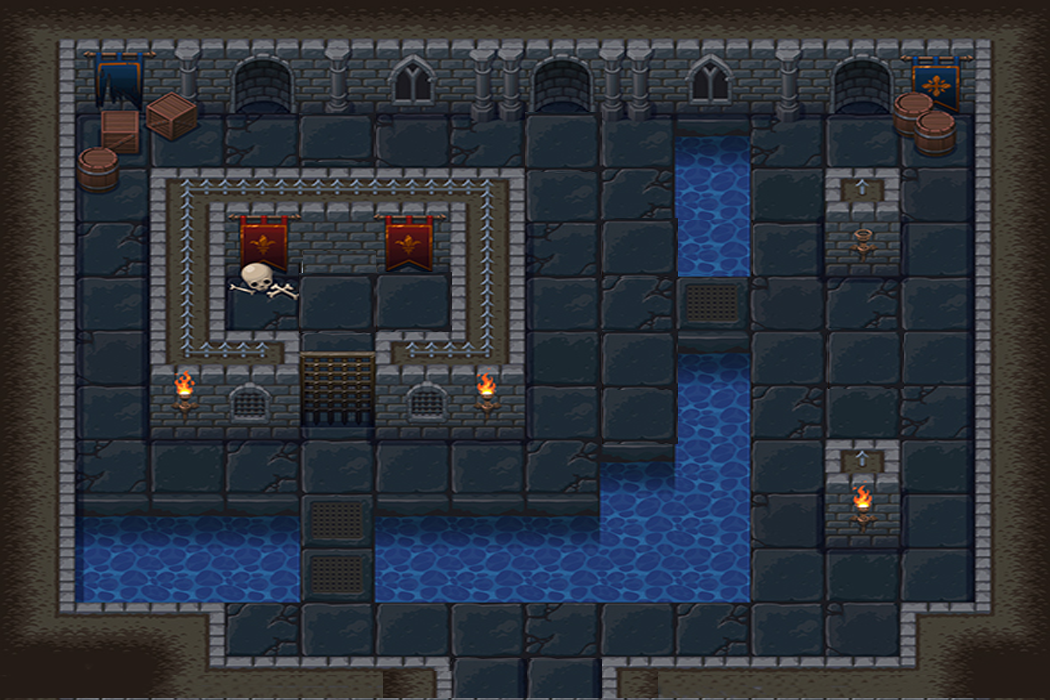
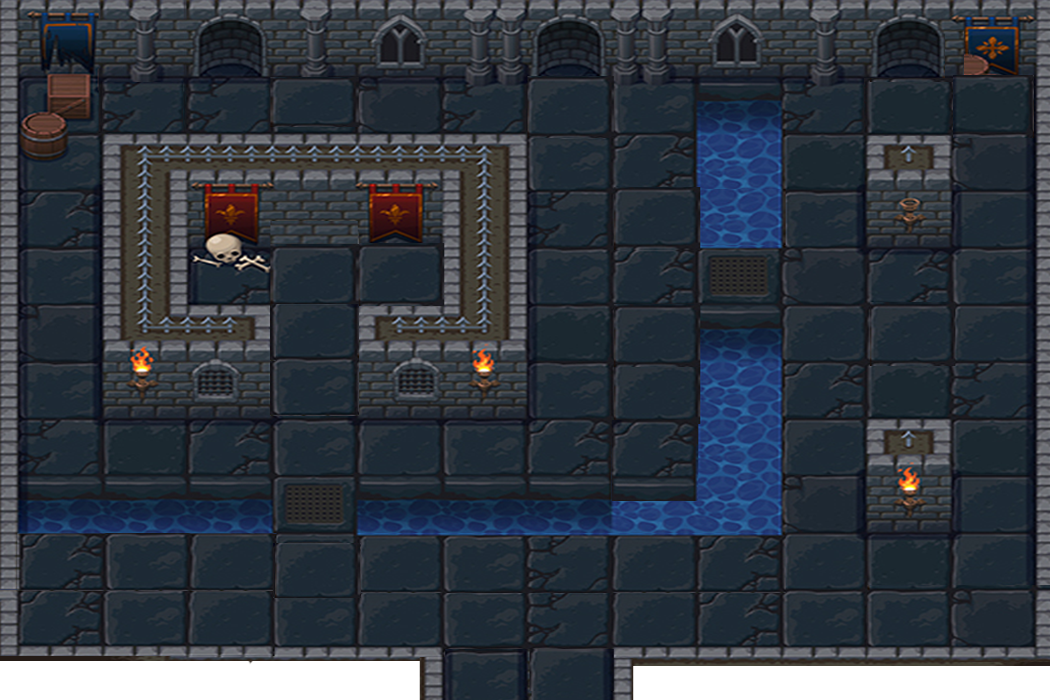
muros dungeon y game over

diff --git a/js/index.js b/js/index.js
@@ -1,4 +1,3 @@
-
 const Game = {
   name: 'Drawing app',
   description: 'Canvas app for basic shapes drawing',
@@ -8,37 +7,40 @@ const Game = {
   canvasTag: undefined,
   ctx: undefined,
   canvasSize: {
-      w: undefined,
-      h: undefined
+    w: undefined,
+    h: undefined
   },
   frames: 0,
   keys: {
     top: 'ArrowUp',
-    bottom:'ArrowDown',
+    bottom: 'ArrowDown',
     left: 'ArrowLeft',
     right: 'ArrowRight'
   },
   player: undefined,
   popino: undefined,
   enemy: [],
-  wall:[],
+  wall: [],
 
   init(id) {
+    
     this.canvasTag = document.getElementById(id);
     this.ctx = this.canvasTag.getContext('2d');
-    this.setDimensions()
+    this.setDimensions()  
+    this.start()  
+  },
+  start(){
+    this.reset()
     this.createPlayer()
     this.createPopino()
     this.createChest()
-    this.drawAll() 
+    this.createWall() 
+    this.drawAll()
     this.setEventListeners()
     this.generateEnemy()
-    this.createWall()
-    
-   // this.isCollision()
-    
-  },
+  
 
+  },
   setDimensions() {
     this.canvasSize.w = 1050
     this.canvasSize.h = 700
@@ -51,31 +53,37 @@ const Game = {
     let trackPosY = this.player.playerPos.y
     let trackSpeed = this.player.playerSpeed
     
+    
     document.onkeydown = e => {
       switch (e.key) {
         case this.keys.top:
               
-              trackPosY = this.player.playerPos.y  
-          if (!this.touchesWalls({ ...this.player, playerPos:{x:this.player.playerPos.x , y: trackPosY - trackSpeed }})) {
+          trackPosY = this.player.playerPos.y
+          if (!this.touchesWalls({ ...this.player, playerPos: { x: this.player.playerPos.x, y: trackPosY - trackSpeed } })) {
+            
             this.player.move('top')
-          } 
+                    
+          }
           break;
         case this.keys.left:
-          trackPosX = this.player.playerPos.x    
-          if (!this.touchesWalls({ ...this.player, playerPos:{x:trackPosX - trackSpeed, y: this.player.playerPos.y }})) {
+          trackPosX = this.player.playerPos.x
+          if (!this.touchesWalls({ ...this.player, playerPos: { x: trackPosX - trackSpeed, y: this.player.playerPos.y } })) {
+            
             this.player.move('left')
+            
           }
           break;
         case this.keys.right:
-          trackPosX = this.player.playerPos.x       
-          if (!this.touchesWalls({ ...this.player, playerPos:{x:trackPosX + trackSpeed, y: this.player.playerPos.y }})) {
+          trackPosX = this.player.playerPos.x
+          if (!this.touchesWalls({ ...this.player, playerPos: { x: trackPosX + trackSpeed, y: this.player.playerPos.y } })) {
+
             this.player.move('right')
                        
           }
           break;
         case this.keys.bottom:
-          trackPosY = this.player.playerPos.y         
-          if (!this.touchesWalls({ ...this.player, playerPos:{x:this.player.playerPos.x , y: trackPosY + trackSpeed }}))  {
+          trackPosY = this.player.playerPos.y
+          if (!this.touchesWalls({ ...this.player, playerPos: { x: this.player.playerPos.x, y: trackPosY + trackSpeed } })) {
             this.player.move('bottom')
                         
           }
@@ -85,67 +93,73 @@ const Game = {
     }
   },
 
-
-  //    e.key === this.keys.top && !this.touchesWalls() ? this.player.move('top'): null 
-  //    e.key === this.keys.bottom && !this.touchesWalls() ? this.player.move('bottom'): null
-  //    e.key === this.keys.left && !this.touchesWalls() ? this.player.move('left') :null
-  //    e.key === this.keys.right && !this.touchesWalls() ? this.player.move('right') : null
-    
-  //  }
-
   createWall() {
-    const wall1 = new Wall(this.ctx, 0, 0, 70, 70, 'bricks.png')
-    const wall2 = new Wall(this.ctx, 200, 300, 70, 70, 'bricks.png')
-    const wall3 = new Wall(this.ctx, 700, 500, 70, 70, 'bricks.png')
+    const wall1 = new Wall(this.ctx, 0, 0, 1050, 70, 'bricks1.png')
+    const wall2 = new Wall(this.ctx, 0, 0, 10, 700, 'bricks1.png')
+    const wall3 = new Wall(this.ctx, 1040, 0, 10, 700, 'bricks1.png')
+    const wall4 = new Wall(this.ctx, 0, 650, 440, 70, 'bricks1.png')
+    const wall5 = new Wall(this.ctx, 610, 650, 440, 70, 'bricks1.png')
+    const wall6 = new Wall(this.ctx, 870, 420, 80, 100, 'bricks1.png')
+    const wall7 = new Wall(this.ctx, 870, 140, 80, 100, 'bricks1.png')
+    const wall8 = new Wall(this.ctx, 110, 150, 80, 250, 'bricks1.png')
+    const wall9 = new Wall(this.ctx, 440, 150, 80, 250, 'bricks1.png')
+    const wall10 = new Wall(this.ctx, 110, 150, 400, 40, 'bricks1.png')
+    const wall11 = new Wall(this.ctx, 110, 310, 150, 80, 'bricks1.png')
+    const wall12 = new Wall(this.ctx, 370, 310, 150, 80, 'bricks1.png')
+    const wall13 = new Wall(this.ctx, 20, 150, 70, 10, 'bricks1.png')
+    const wall14 = new Wall(this.ctx, 0, 480, 240, 10, 'bricks1.png')
+    const wall15 = new Wall(this.ctx, 360, 480, 400, 10, 'bricks1.png')
+    const wall16 = new Wall(this.ctx, 720, 320, 50, 180, 'bricks1.png')
+    const wall17 = new Wall(this.ctx, 720, 50, 50, 180, 'bricks1.png')
 
-    this.wall.push(wall1, wall2, wall3)
+    this.wall.push(wall1, wall2, wall3, wall4,wall5, wall6, wall7, wall8, wall9, wall10, wall11, wall12,wall13,wall14,wall15, wall16,wall17)
     
- },
+  },
 
   createPlayer() {
 
-    this.player = new Player (this.ctx, 210, 500, 70, 70, "player.png");
+    this.player = new Player(this.ctx, 500, 590, 70, 70, "player.png");
   },
   createPopino() {
 
-    this.popino = new Popino (this.ctx, 950, 20, 50, 50, "popino.png");
+    this.popino = new Popino(this.ctx, 290, 250, 50, 50, "popino.png");
   },
   createChest() {
 
-    this.chest = new Chest (this.ctx, 950, 500, 50, 50, "chest.png");
+    this.chest = new Chest(this.ctx, 960, 50, 50, 50, "chest.png");
   },
   
   generateEnemy() {
-    const enemy1 = new Enemy(this.ctx, this.canvasSize, 0, 0, 70, 70, 4, 'enemy.png')
-    const enemy2 = new Enemy(this.ctx, this.canvasSize, 0, 300, 70, 70, 7, 'enemy.png')
-    const enemy3 = new Enemy(this.ctx, this.canvasSize, 0, 500, 70, 70, 3, 'enemy.png')
+    const enemy1 = new Enemy(this.ctx, this.canvasSize, 15, 72, 70, 70, 4, 'enemy.png')
+    const enemy2 = new Enemy(this.ctx, this.canvasSize, 600, 240, 70, 70, 7, 'enemy.png')
+    const enemy3 = new Enemy(this.ctx, this.canvasSize, 15, 500, 70, 70, 3, 'enemy.png')
 
     this.enemy.push(enemy1, enemy2, enemy3)
   },
   
   drawAll() {
-    setInterval(() => {
-    this.frames++
-    this.clearScreen()
-    this.player.draw()
-    this.popino.draw()
-    this.chest.draw()
-    this.enemy.forEach(elm => elm.draw())
-    this.wall.forEach(elm => elm.draw())
-  
+    this.interval = setInterval(() => {
+      this.frames++
+      this.clearScreen()
+      this.player.draw()
+      this.popino.draw()
+      this.chest.draw()
+      this.enemy.forEach(elm => elm.draw())
+      this.wall.forEach(elm => elm.draw())
+      this.moveEnemyWall(this.enemy)
+      this.enemyCatchPlayer(this.player) ? this.gameOver(): null
     }, 70)
   },
   
   clearScreen() {
     this.ctx.clearRect(0, 0, this.canvasSize.w, this.canvasSize.h)
-},
-touchesWalls(player) {
-    //  console.log("touche-player", player, this.wall)
-     return this.wall.some(wall => this.isCollision(player, wall));
+  },
+  touchesWalls(player) {
+  
+    return this.wall.some(wall => this.isCollision(player, wall));
   },
 
   isCollision(player, wall) {
-  // console.log("isCollision- Player", player)
     return (
     
       player.playerPos.x + player.playerSize.w >= wall.wallPos.x &&
@@ -153,7 +167,53 @@ touchesWalls(player) {
       player.playerPos.y + player.playerSize.h >= wall.wallPos.y &&
       player.playerPos.y < wall.wallPos.y + wall.wallSize.h
     );
-  }
+  },
+  
+  moveEnemyWall(enemies) {
+    enemies.some(enemy => enemy.moveEnemy(this.touchesWallsEnemy(enemy)));
+  },
 
+  touchesWallsEnemy(enemy) {
+    return this.wall.some(wall => this.isCollisionEnemy(enemy, wall));
+  },
 
+  isCollisionEnemy(enemy, wall) {
+    return (
+    
+      enemy.enemyPos.x + enemy.enemySize.w >= wall.wallPos.x &&
+      enemy.enemyPos.x < wall.wallPos.x + wall.wallSize.w &&
+      enemy.enemyPos.y + enemy.enemySize.h >= wall.wallPos.y &&
+      enemy.enemyPos.y < wall.wallPos.y + wall.wallSize.h
+    );
+  },
+
+  isCollisionPlayer(enemy, player) {
+    //return this.enemy.some(enemy => {
+      return (
+    
+      enemy.enemyPos.x + enemy.enemySize.w >= player.playerPos.x &&
+      enemy.enemyPos.x < player.playerPos.x + player.playerSize.w &&
+      enemy.enemyPos.y + enemy.enemySize.h >= player.playerPos.y &&
+      enemy.enemyPos.y < player.playerPos.y + player.playerSize.h
+      );
+  },
+   enemyCatchPlayer(player) {
+    return this.enemy.some(enemy => this.isCollisionPlayer(enemy, player));
+  },
+  
+  gameOver() {
+    clearInterval(this.interval);
+    alert('Has perdido')
+    this.start()
+   },
+  
+   reset() {
+    this.clearScreen()
+    this.createPlayer()
+    this.createPopino()
+    this.createChest()
+    this.generateEnemy()
+    this.createWall() 
+   }
+  
 } 

diff --git a/js/player.js b/js/player.js
@@ -25,27 +25,13 @@ class Player {
     this.ctx.drawImage(this.playerInstance, this.playerPos.x, this.playerPos.y, this.playerSize.w, this.playerSize.h)
   }
   
-  // move(dir) {
-  //   if (dir === 'top' && this.isCollision() === false) {
-  //     this.playerPos.y -= 20;
-  //   }
-  //   if (dir === 'bottom' && this.isCollision() === false) {
-  //     this.playerPos.y += 20;
-  //   }
-  //   if (dir === 'left' && this.isCollision() === false) {
-  //     this.playerPos.x -= 20;
-  //   }
-  //   if (dir === 'right' && this.isCollision() === false) {
-  //     this.playerPos.x += 20;
-  //   }
-  // }
-  
-
   move(dir) {
-    
-    dir === 'top' ? this.playerPos.y -= this.playerSpeed : null; 
-    dir === 'bottom' ? this.playerPos.y += this.playerSpeed  : null;
-    dir === 'left' ? this.playerPos.x -= this.playerSpeed  : null;
-    dir === 'right' ? this.playerPos.x += this.playerSpeed : null;
-  }
+
+      dir === 'top' ? this.playerPos.y -= this.playerSpeed : null; 
+      dir === 'bottom' ? this.playerPos.y += this.playerSpeed  : null;
+      dir === 'left' ? this.playerPos.x -= this.playerSpeed  : null;
+      dir === 'right' ? this.playerPos.x += this.playerSpeed : null;
+
+    }
+  
 }

diff --git a/js/enemies.js b/js/enemies.js
@@ -30,9 +30,9 @@ class Enemy {
     this.ctx.drawImage(this.imageInstance, this.enemyPos.x, this.enemyPos.y, this.enemySize.w, this.enemySize.h)
   }
 
-  moveEnemy() {
+  moveEnemy(crash) {
 
-    if (this.enemyPos.x >= this.canvasSize.w - this.enemySize.w || this.enemyPos.x < 0) {
+    if ((this.enemyPos.x >= this.canvasSize.w - this.enemySize.w || this.enemyPos.x < 0) || (crash)) {
         this.changeDirection()
     }
 

diff --git a/style/styles.css b/style/styles.css
@@ -2,5 +2,5 @@
     border: 3px solid black;
     margin: 60px  auto 0;
     display: block;
-    background-color: rgb(73, 72, 72);
+    background-image: url(../img/dungeon.png)
 }
